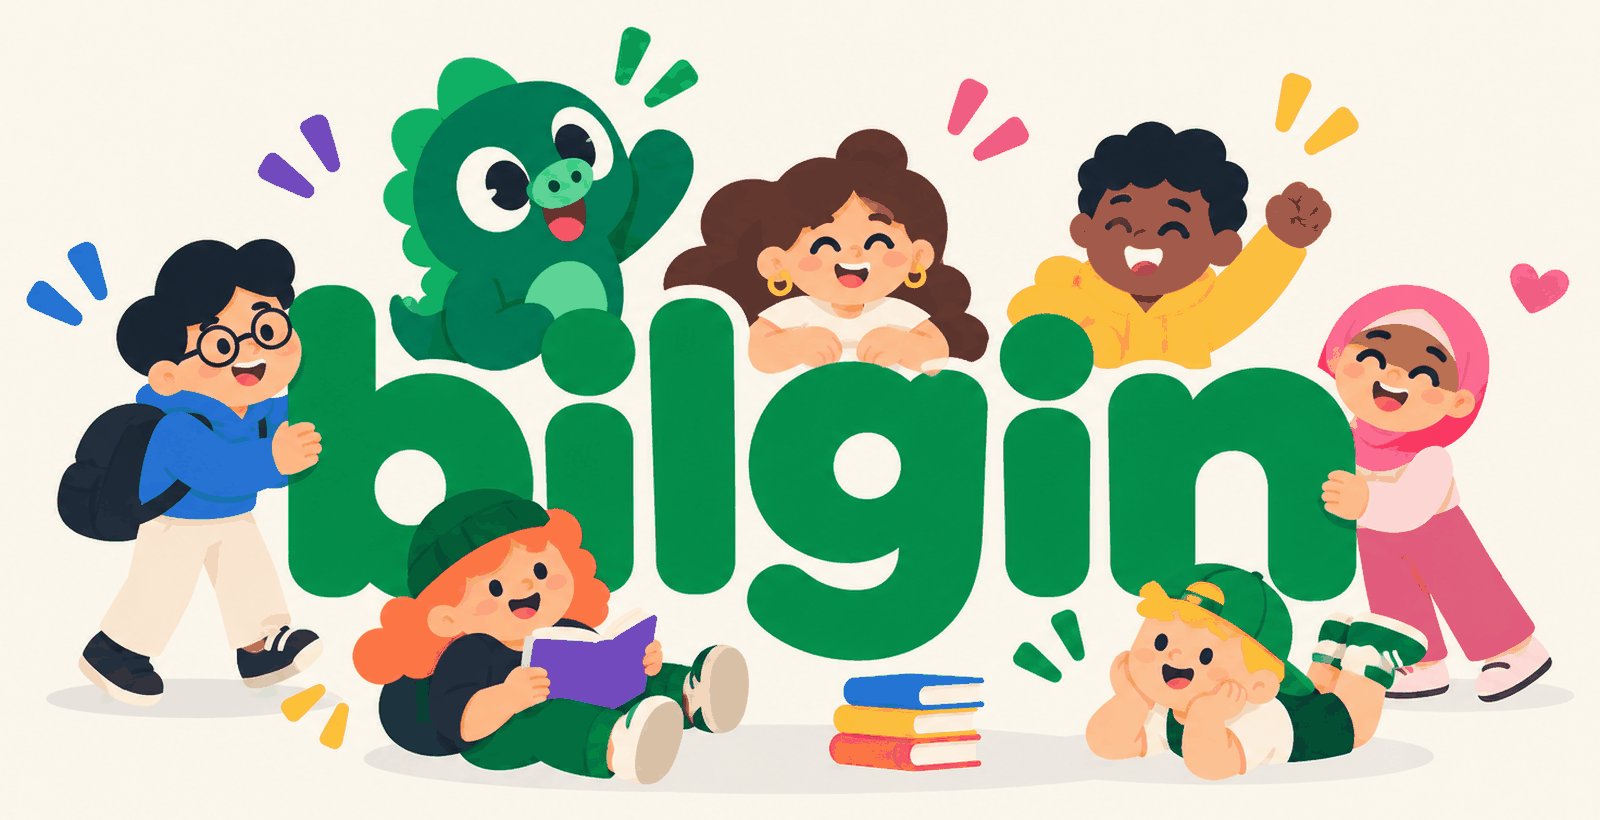
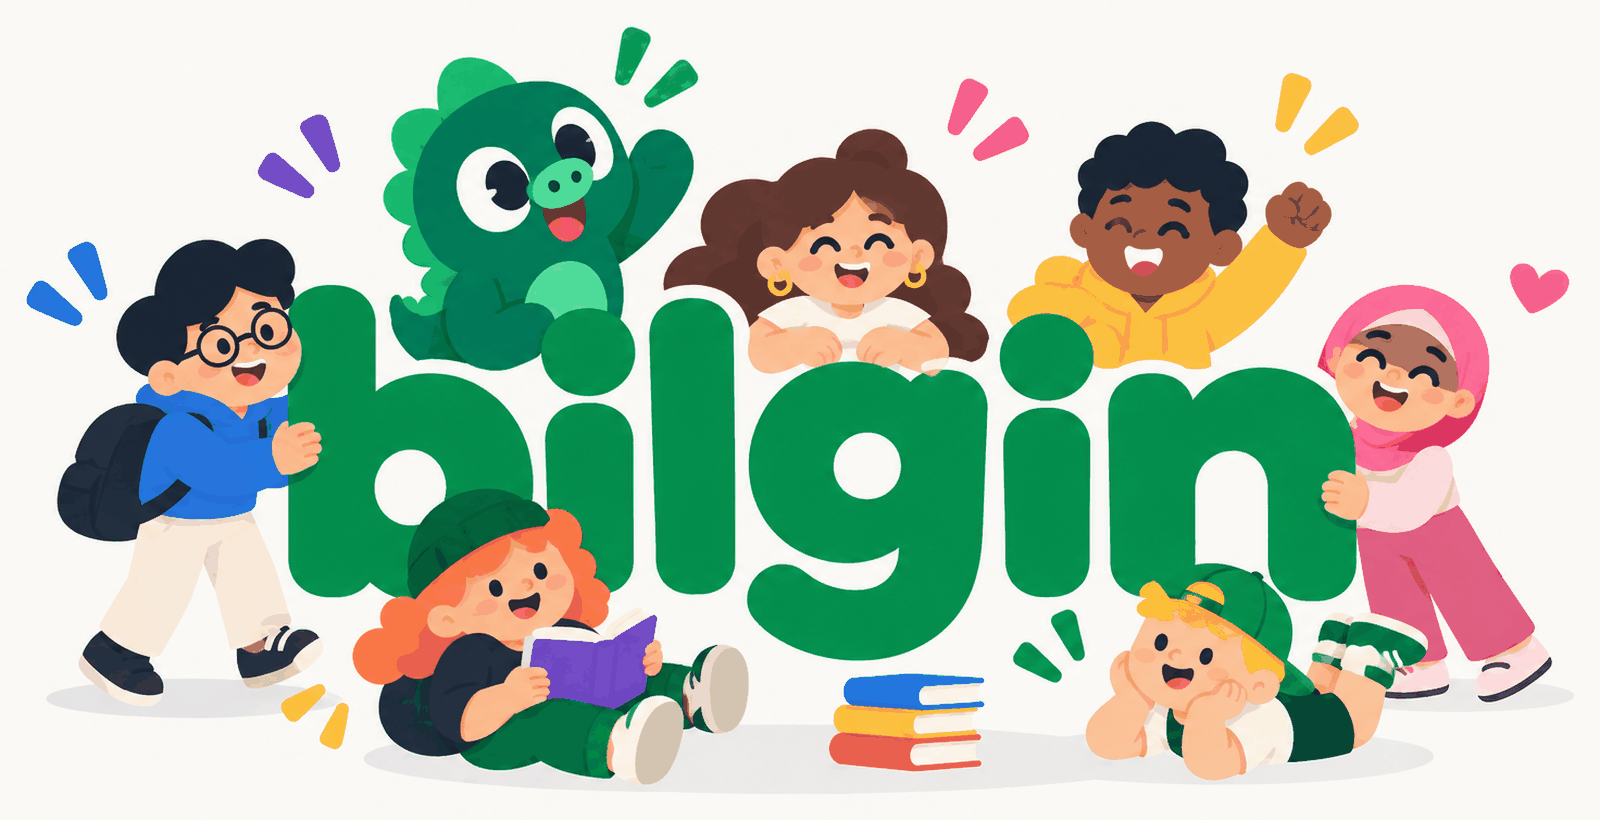
Arka planı kırık beyaza çevir
--cream #FBF6EC (krem) yerine #FAF9F6 (kırık beyaz) kullanılıyor.
İllüstrasyonun zemini arka plan rengine işlendiği için görsel türevleri de
yeni renkle yeniden üretildi; 1600px sürümünde kuantalama zemini bir birim
kaydırdığından palet girdisi hedef renge sabitlendi. Render'da görselin
zemini ile sayfa arka planı aynı piksel değerinde (#FAF9F6).

Claude-Session: https://claude.ai/code/session_01F9UhKRPcktZPiyRX4fWxeg

diff --git a/styles.css b/styles.css
@@ -1,7 +1,7 @@
 :root{
   --green:#087357;
   --green-l:#56C793;
-  --cream:#FBF6EC;
+  --cream:#FAF9F6;
   --ink:#16201B;
   --ink-2:#5C6A62;
 }

diff --git a/README.md b/README.md
@@ -29,7 +29,7 @@ python3 -m http.server 8000
 ## Görsel türevlerini yeniden üretme
 
 Kaynak dosyaları değiştirirseniz sayfadaki türevleri yeniden üretin. İllüstrasyonun
-beyaz zemini, krem arka planla birebir aynı renge (`--cream`, `#FBF6EC`) dönüştürülerek
+beyaz zemini, krem arka planla birebir aynı renge (`--cream`, `#FAF9F6`) dönüştürülerek
 görselin içine işlenir — böylece sayfada kutu kenarı görünmez ve CSS blend moduna
 ihtiyaç kalmaz:
 
@@ -37,7 +37,7 @@ ihtiyaç kalmaz:
 from PIL import Image
 import numpy as np
 
-CREAM = np.array([251, 246, 236], float)
+CREAM = np.array([250, 249, 246], float)
 im = Image.open('assets/bilgin-karakterler.png').convert('RGB')
 a = np.asarray(im).astype(int)
 
